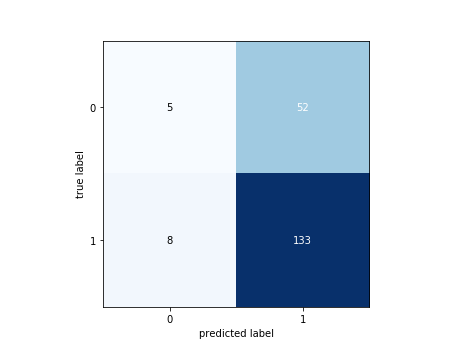
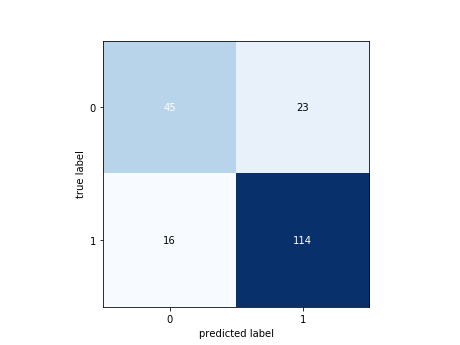
updates

Changed region(s): [[0.213, 0.1159, 0.8217, 0.5217], [0.6391, 0.6667, 0.6696, 0.7246], [0.3652, 0.6667, 0.3957, 0.7246]]

diff --git a/src/classifier/knn.py b/src/classifier/knn.py
@@ -21,10 +21,10 @@ path = 'C:\\Users\\rafae\\Documents\\GitHub\\TCC-Dataset\\dataset'
 def split_sets(conj_train, conj_test, descriptor):
 
     for i in range(0, len(conj_test)):
-        print("\n\n\n\n************************************")
-        print("EXECUÇÃO "+ str(i+1) + " de ", end='')
-        print(len(conj_test))
-        print("************************************")
+        print("\n\n\n\n*********************")
+        print("** EXECUÇÃO "+ str(i+1) + " de ", end='')
+        print(len(conj_test), end=" **\n")
+        print("*********************")
         
         if descriptor == 'hog':
             X_train, y_train = hog.extract(path, conj_train[i]);    
@@ -43,19 +43,22 @@ def split_sets(conj_train, conj_test, descriptor):
             X_test, y_test   = surf.extract(path, conj_test[i]);
 
         elif descriptor == 'combined':
-            X_train_ORB, y_train_ORB    = orb.extract(path, conj_train[i]);
-            X_test_ORB, y_test_ORB      = orb.extract(path, conj_train[i]);
-            
+           
             X_train_SIFT, y_train_SIFT  = sift.extract(path, conj_train[i]);
-            X_test_SIFT, y_test_SIFT    = sift.extract(path, conj_train[i]);
+            X_test_SIFT, y_test_SIFT    = sift.extract(path, conj_test[i]);
             
             X_train_HOG, y_train_HOG    = hog.extract(path, conj_train[i]);
-            X_test_HOG, y_test_HOG      = hog.extract(path, conj_train[i]);
+            X_test_HOG, y_test_HOG      = hog.extract(path, conj_test[i], train=False);
           
-            X_train = X_train_ORB + X_train_SIFT + X_train_HOG
-            y_train = y_train_ORB + y_train_SIFT + y_train_HOG
-            X_test  = X_test_ORB + X_test_SIFT + X_test_HOG
-            y_test  = y_test_ORB + y_test_SIFT + y_test_HOG
+            X_train_ORB, y_train_ORB    = orb.extract(path, conj_train[i]);
+            X_test_ORB, y_test_ORB      = orb.extract(path, conj_test[i], train=False);
+            
+            X_train = np.concatenate( [ X_train_ORB, X_train_HOG, X_train_SIFT ], axis=1 );
+            y_train = y_train_ORB;
+            X_test  = np.concatenate( [ X_test_ORB, X_test_HOG, X_test_SIFT ], axis=1 );
+            y_test  = y_test_ORB;
+
+        
 
 
         init(X_train, y_train, X_test, y_test, i+1)
@@ -63,7 +66,7 @@ def split_sets(conj_train, conj_test, descriptor):
     
 
 def classify(descriptor):
-    conj_train, conj_test = cross_validation.split(2)
+    conj_train, conj_test = cross_validation.split(8)
     split_sets(conj_train, conj_test, descriptor)
         
 

diff --git a/src/extractor/orb.py b/src/extractor/orb.py
@@ -5,16 +5,21 @@ from sklearn.utils import shuffle
 from tqdm import tqdm
 
 
-def extract(path, data):
+def extract(path, data, train=True):
 
         vector_size = 32
         x_val = []
         y_val = []
 
+        if train:
+            print("ORB descripting train")
+        else:
+            print("ORB descripting test")
+
         orb = cv2.ORB_create()
 
         for f in tqdm(data):
-        
+            
             try:
                 # Carrega a imagem pra memória
                 img = cv2.imread(os.path.join(path, f), cv2.COLOR_RGB2GRAY)
@@ -50,8 +55,10 @@ def extract(path, data):
                        y_val.append(1)
                     else:
                         y_val.append(-1)
-
+                else:
+                    print(f)                    
             except cv2.error as e:
+                print(f)
                 print('Error: ', e)
                     
-        return x_val, y_val
+        return np.array(x_val), np.array(y_val)

diff --git a/show image/hog_show_features.py b/show image/hog_show_features.py
@@ -1,6 +1,7 @@
 import numpy as np
 import cv2
 import matplotlib.pyplot as plt
+from sklearn.decomposition import PCA
 
 img = cv2.imread("C:\\img\\0.jpeg")
 
@@ -8,7 +9,6 @@ import matplotlib.pyplot as plt
 
 from skimage.feature import hog
 from skimage import data, exposure
-
 
 fd, hog_image = hog(img, orientations=8, pixels_per_cell=(16, 16),
                     cells_per_block=(1, 1), visualize=True, multichannel=True)
@@ -20,7 +20,10 @@ ax1.imshow(img, cmap=plt.cm.gray)
 ax1.set_title('Entrada')
 
 # Rescale histogram for better display
-hog_image_rescaled = exposure.rescale_intensity(hog_image, in_range=(0, 10))
+pca = PCA(n_components=3, whiten=True)
+pca = pca.fit(hog_image)
+
+hog_image_rescaled = exposure.rescale_intensity(pca.transform(hog_image), in_range=(0, 10))
 
 ax2.axis('off')
 ax2.imshow(hog_image_rescaled, cmap=plt.cm.gray)

diff --git a/src/extractor/hog.py b/src/extractor/hog.py
@@ -9,14 +9,18 @@ from tqdm import tqdm
 from tools import cross_validation
 
 
-def extract(path, data):
+def extract(path, data, train=True):
 
     x_val = []
     y_val = []
 
-    print("Descripting")
+    if train:
+        print("HOG descripting train")
+    else:
+        print("HOG descripting test")
        
     for f in tqdm(data):
+        
         try:
             img = cv2.imread(os.path.join(path, f), cv2.COLOR_RGB2GRAY)
             img = cv2.resize(img, (256, 256))
@@ -36,7 +40,8 @@ def extract(path, data):
                     y_val.append(-1)
         
         except cv2.error as e:
+            print(f)
             print('Error: ', e)
                 
     
-    return x_val, y_val
+    return np.array(x_val), np.array(y_val)

diff --git a/src/extractor/sift.py b/src/extractor/sift.py
@@ -5,15 +5,18 @@ from sklearn.utils import shuffle
 from tqdm import tqdm
 
 
-def extract(path, data):
+def extract(path, data, train=True):
         vector_size = 32
         x_val = []
         y_val = []
 
         sift = cv2.xfeatures2d.SIFT_create(11)
 
+        if train:
+            print("SIFT descripting train")
+        else:
+            print("SIFT descripting test")
         
-        print("Descripting")
         for f in tqdm(data):
         
             try:
@@ -44,6 +47,7 @@ def extract(path, data):
                         y_val.append(-1)
                         
             except cv2.error as e:
+                print(f)
                 print('Error: ', e)
                     
         return x_val, y_val

diff --git a/src/tools/cross_validation.py b/src/tools/cross_validation.py
@@ -13,7 +13,7 @@ def split(folds = 2):
     f_imgs = np.array([f for f in os.listdir(path) if(f.endswith(".png"))])
     imgs = []
 
-    print("Splitting...")
+    print("Splitting dataset " + str(folds) + " folds...")
 
     for f in tqdm(f_imgs):
         try:
